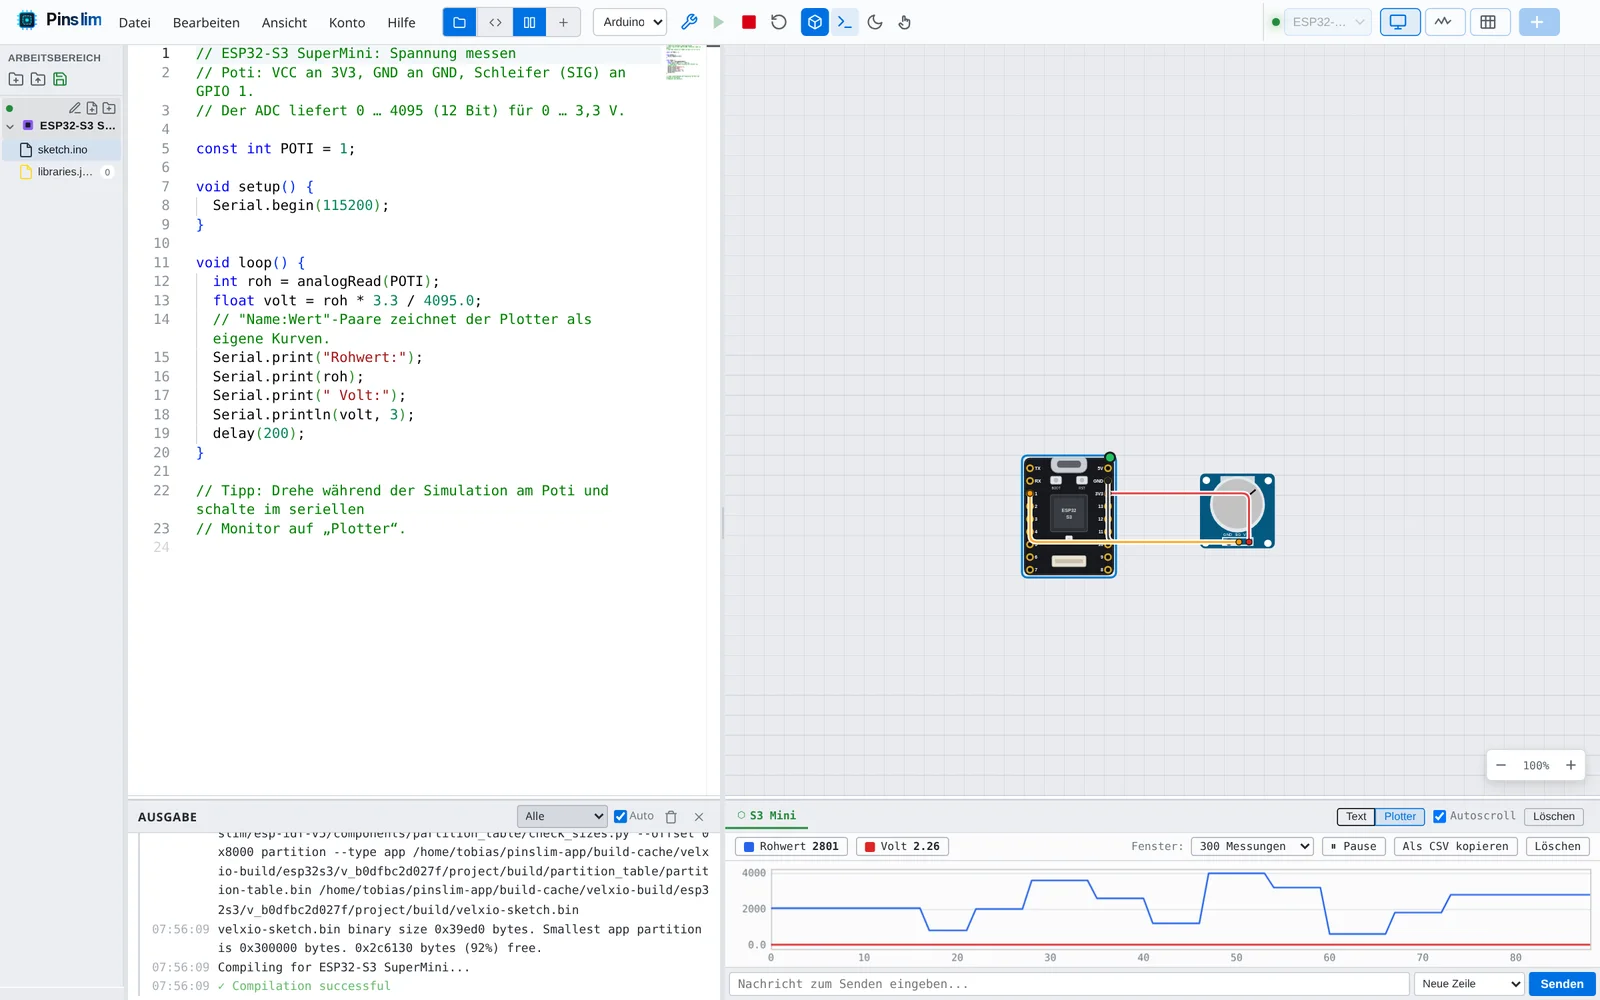
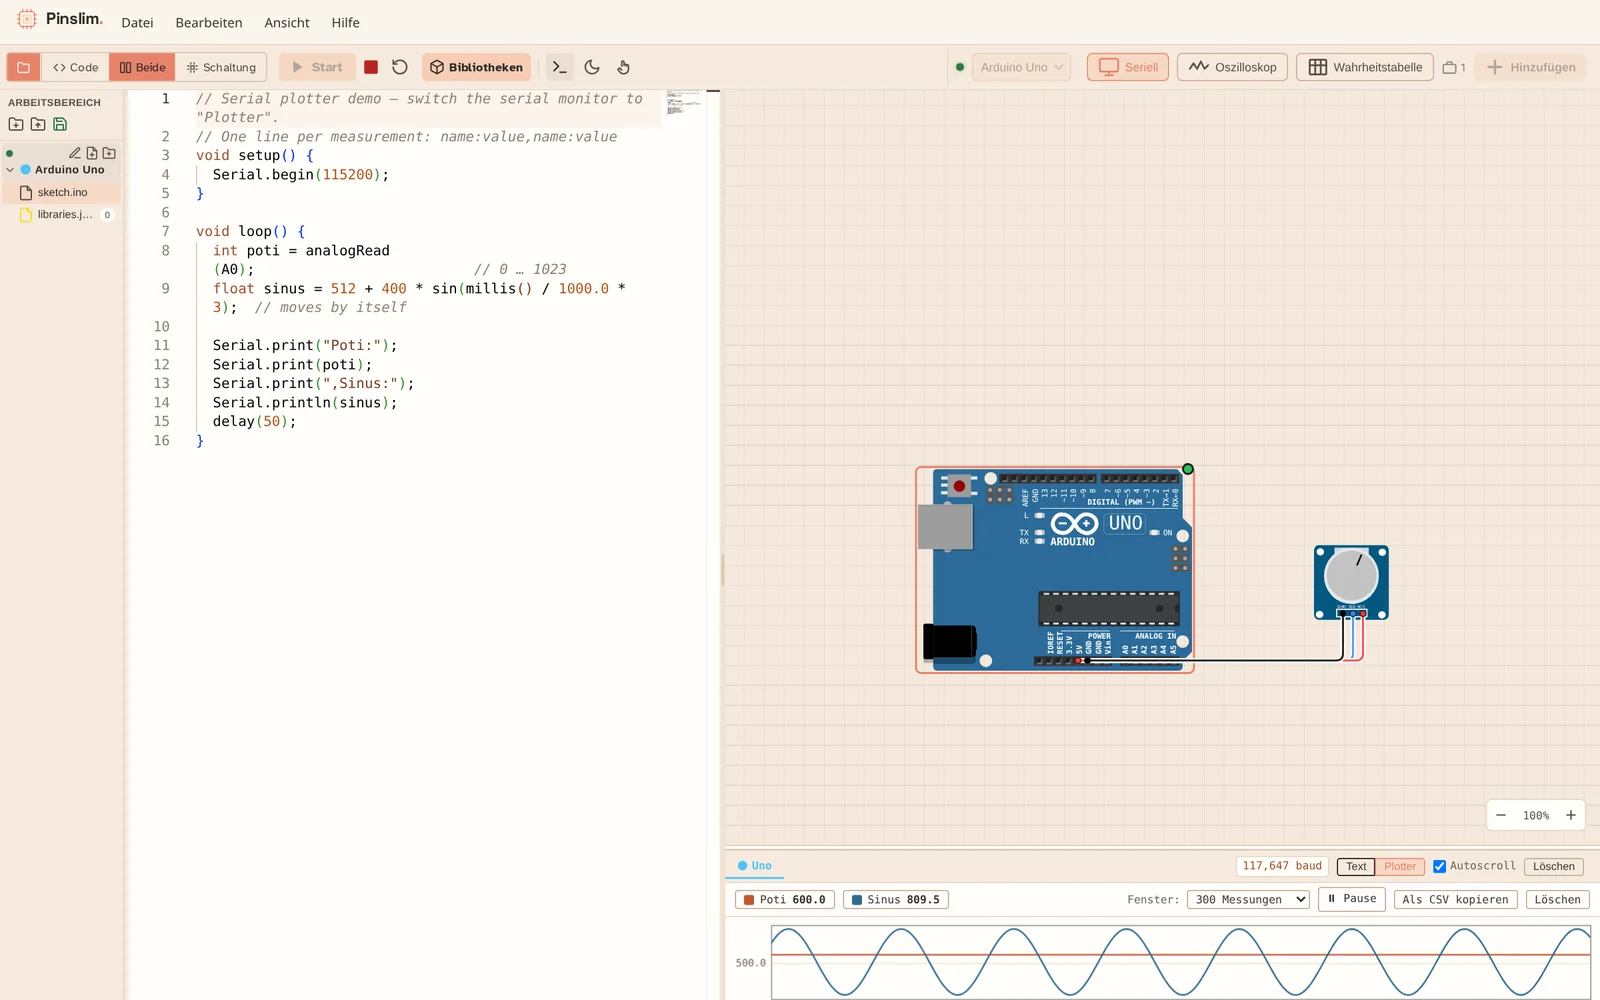
Real screenshots with a running backend; remaining blues and Velxio text
- New screenshots of Uno/Pico running on a real compile: decoded I2C in the
  oscilloscope, serial plotter (Uno); site/esp32-i2c.webp renamed to
  uno-i2c.webp because it now shows an Arduino Uno
- Serial plotter palette in the brand hues
- Light blue (#4fc3f7) accent in example pages, share dialog, consoles and
  file system replaced by the accent token
- Example sketches print "Pinslim" on their displays instead of "Velxio"

diff --git a/frontend/src/data/examples.ts b/frontend/src/data/examples.ts
@@ -156,7 +156,7 @@ void loop() {
   display.setTextColor(SSD1306_WHITE);
   display.setCursor(0, 0);
   display.println("Hello");
-  display.println("Velxio!");
+  display.println("Pinslim!");
   display.setTextSize(1);
   display.setCursor(0, 48);
   display.print("Count: ");
@@ -236,7 +236,7 @@ void loop() {
   display.setTextColor(SSD1306_WHITE);
   display.setCursor(0, 0);
   display.println("Hello");
-  display.println("Velxio!");
+  display.println("Pinslim!");
   display.setTextSize(1);
   display.setCursor(0, 48);
   display.printf("Count: %d", n);
@@ -623,7 +623,7 @@ void loop() {
   display.setTextColor(SSD1306_WHITE);
   display.setCursor(0, 0);
   display.println("Hello");
-  display.println("Velxio!");
+  display.println("Pinslim!");
   display.setTextSize(1);
   display.setCursor(0, 48);
   display.print("Count: ");
@@ -703,7 +703,7 @@ void loop() {
   display.setTextColor(SSD1306_WHITE);
   display.setCursor(0, 0);
   display.println("Hello");
-  display.println("Velxio!");
+  display.println("Pinslim!");
   display.setTextSize(1);
   display.setCursor(0, 48);
   display.print("Count: ");
@@ -1543,7 +1543,7 @@ void setup() {
   display.setTextColor(SSD1306_WHITE);
   display.setCursor(0, 0);
   display.println("Hello");
-  display.println("Velxio!");
+  display.println("Pinslim!");
   display.display();
   Serial.println("OLED ready");
 }
@@ -1555,7 +1555,7 @@ void loop() {
   display.setTextColor(SSD1306_WHITE);
   display.setCursor(0, 0);
   display.println("Hello");
-  display.println("Velxio!");
+  display.println("Pinslim!");
   display.setTextSize(1);
   display.setCursor(0, 48);
   display.print("Count: ");
@@ -1872,7 +1872,7 @@ void loop() {
   float p = bmp.readPressure() / 100.0F;   // hPa
   display.clearDisplay();
   display.setTextSize(1); display.setCursor(0, 0);
-  display.println("Velxio Weather");
+  display.println("Pinslim Weather");
   display.setTextSize(2); display.setCursor(0, 16);
   display.print(t, 1); display.println(" C");
   display.setTextSize(1); display.setCursor(0, 52);
@@ -3871,7 +3871,7 @@ void setup() {
   // Print a message to the LCD.
   lcd.print("Hello, Arduino!");
   lcd.setCursor(0, 1);
-  lcd.print("Velxio Emulator");
+  lcd.print("Pinslim Emulator");
   lcd.setCursor(0, 2);
   lcd.print("LCD 2004 Test");
 }
@@ -10392,7 +10392,7 @@ void setup() {
   display.setTextColor(SSD1306_WHITE);
   display.setCursor(0, 0);
   display.println("Hello");
-  display.println("Velxio!");
+  display.println("Pinslim!");
   display.display();
   Serial.println("OLED ready!");
 }
@@ -10404,7 +10404,7 @@ void loop() {
   display.setTextColor(SSD1306_WHITE);
   display.setCursor(0, 0);
   display.println("Hello");
-  display.println("Velxio!");
+  display.println("Pinslim!");
   display.setTextSize(1);
   display.setCursor(0, 48);
   display.printf("Count: %d", counter);

diff --git a/frontend/src/pages/ExampleDetailPage.tsx b/frontend/src/pages/ExampleDetailPage.tsx
@@ -108,9 +108,9 @@ export const ExampleDetailPage: React.FC = () => {
           <Link
             to="/examples"
             style={{
-              color: '#4fc3f7',
+              color: 'var(--color-accent-fg)',
               textDecoration: 'none',
-              border: '1px solid #4fc3f7',
+              border: '1px solid var(--color-accent-fg)',
               borderRadius: 4,
               padding: '8px 20px',
               fontSize: 14,
@@ -202,7 +202,7 @@ export const ExampleDetailPage: React.FC = () => {
                 padding: '3px 10px',
                 borderRadius: 4,
                 background: 'var(--color-accent-soft)',
-                color: '#4fc3f7',
+                color: 'var(--color-accent-fg)',
               }}
             >
               {categoryLabel}
@@ -288,7 +288,7 @@ export const ExampleDetailPage: React.FC = () => {
                   fontSize: 14,
                 }}
               >
-                <span style={{ color: '#4fc3f7', fontWeight: 700 }}>✓</span>
+                <span style={{ color: 'var(--color-accent-fg)', fontWeight: 700 }}>✓</span>
                 Real {boardLabel} emulation — cycle-accurate, no hardware needed
               </li>
               <li
@@ -300,7 +300,7 @@ export const ExampleDetailPage: React.FC = () => {
                   fontSize: 14,
                 }}
               >
-                <span style={{ color: '#4fc3f7', fontWeight: 700 }}>✓</span>
+                <span style={{ color: 'var(--color-accent-fg)', fontWeight: 700 }}>✓</span>
                 {example.components.length > 0
                   ? `${example.components.length} interactive component${example.components.length > 1 ? 's' : ''} on the canvas`
                   : 'Interactive simulation canvas'}
@@ -315,7 +315,7 @@ export const ExampleDetailPage: React.FC = () => {
                     fontSize: 14,
                   }}
                 >
-                  <span style={{ color: '#4fc3f7', fontWeight: 700 }}>✓</span>
+                  <span style={{ color: 'var(--color-accent-fg)', fontWeight: 700 }}>✓</span>
                   Auto-installs: {example.libraries.join(', ')}
                 </li>
               )}
@@ -328,7 +328,7 @@ export const ExampleDetailPage: React.FC = () => {
                   fontSize: 14,
                 }}
               >
-                <span style={{ color: '#4fc3f7', fontWeight: 700 }}>✓</span>
+                <span style={{ color: 'var(--color-accent-fg)', fontWeight: 700 }}>✓</span>
                 Serial Monitor included — see output in real time
               </li>
             </ul>

diff --git a/frontend/src/data/examples-displays-epaper.ts b/frontend/src/data/examples-displays-epaper.ts
@@ -46,7 +46,7 @@ void setup() {
   display.firstPage();
   do {
     display.fillScreen(GxEPD_WHITE);
-    display.setCursor(20, 60);  display.print(F("Velxio"));
+    display.setCursor(20, 60);  display.print(F("Pinslim"));
     display.setCursor(20, 100); display.print(F("ePaper"));
     display.setCursor(20, 140); display.print(F("OK!"));
   } while (display.nextPage());
@@ -104,7 +104,7 @@ void drawClock() {
   display.fillScreen(GxEPD_WHITE);
   display.setTextColor(GxEPD_BLACK);
   display.setFont(&FreeMonoBold12pt7b);
-  display.setCursor(8, 28);  display.print("Velxio Clock");
+  display.setCursor(8, 28);  display.print("Pinslim Clock");
   display.setCursor(8, 64);
   display.print("uptime: "); display.print(minutes); display.print("m");
 }
@@ -180,7 +180,7 @@ void setup() {
     display.fillScreen(GxEPD_WHITE);
     display.setTextColor(GxEPD_BLACK);
     display.setFont(&FreeMonoBold12pt7b);
-    display.setCursor(8, 28);  display.print("Velxio Weather");
+    display.setCursor(8, 28);  display.print("Pinslim Weather");
     display.setCursor(8, 64);  display.print("Temp:  22.5 C");
     display.setCursor(8, 96);  display.print("RH:    48 %");
   } while (display.nextPage());
@@ -237,7 +237,7 @@ void drawLayout() {
   display.fillScreen(GxEPD_WHITE);
   display.setTextColor(GxEPD_BLACK);
   display.setFont(&FreeMonoBold18pt7b);
-  display.setCursor(20, 60);  display.print("Velxio Logbook");
+  display.setCursor(20, 60);  display.print("Pinslim Logbook");
   display.drawLine(20, 80, 380, 80, GxEPD_BLACK);
 
   display.setFont(&FreeMonoBold9pt7b);
@@ -314,7 +314,7 @@ void drawDashboard() {
 
   // Title
   display.setFont(&FreeMonoBold24pt7b);
-  display.setCursor(40, 60);  display.print("Velxio Dashboard");
+  display.setCursor(40, 60);  display.print("Pinslim Dashboard");
   display.drawLine(40, 80, 760, 80, GxEPD_BLACK);
 
   // Tiles
@@ -487,7 +487,7 @@ void drawRainbow() {
   display.setTextColor(GxEPD_BLACK);
   display.setFont(&FreeMonoBold18pt7b);
   display.setCursor(120, 240);
-  display.print("Velxio ACeP 7c");
+  display.print("Pinslim ACeP 7c");
 }
 
 void setup() {

diff --git a/frontend/src/components/raspberry-pi/VirtualFileSystem.tsx b/frontend/src/components/raspberry-pi/VirtualFileSystem.tsx
@@ -40,7 +40,7 @@ const IcoFolder = ({ open }: { open: boolean }) => (
 
 const IcoFile = ({ name }: { name: string }) => {
   const ext = name.split('.').pop()?.toLowerCase() ?? '';
-  const color = ext === 'py' ? '#4fc3f7' : ext === 'sh' ? 'var(--color-feedback-success)' : 'var(--wb-11)';
+  const color = ext === 'py' ? 'var(--color-accent-fg)' : ext === 'sh' ? 'var(--color-feedback-success)' : 'var(--wb-11)';
   return (
     <svg width="13" height="13" viewBox="0 0 24 24" fill="none" stroke={color} strokeWidth="2">
       <path d="M14 2H6a2 2 0 0 0-2 2v16a2 2 0 0 0 2 2h12a2 2 0 0 0 2-2V8z" />
@@ -405,7 +405,7 @@ export const VirtualFileSystem: React.FC<VirtualFileSystemProps> = ({ boardId, o
                     ? '#ef5350'
                     : uploadStatus === 'uploading'
                       ? '#f59e0b'
-                      : '#4fc3f7',
+                      : 'var(--color-accent-fg)',
               opacity: uploadStatus === 'uploading' ? 0.7 : 1,
             }}
             onClick={handleUpload}
@@ -510,7 +510,7 @@ export const VirtualFileSystem: React.FC<VirtualFileSystemProps> = ({ boardId, o
         .vfs-rename-input {
           flex: 1;
           background: #3c3c3c;
-          border: 1px solid #4fc3f7;
+          border: 1px solid var(--color-accent-fg);
           color: #fff;
           font-size: 12px;
           padding: 1px 4px;

diff --git a/frontend/src/components/simulator/SerialMonitor.tsx b/frontend/src/components/simulator/SerialMonitor.tsx
@@ -382,7 +382,7 @@ export const SerialMonitor: React.FC = () => {
                           : undefined
                       }
                       style={{
-                        color: '#4fc3f7',
+                        color: 'var(--color-accent-fg)',
                         textDecoration: 'underline',
                         fontWeight: 'bold',
                         cursor: 'pointer',
@@ -495,7 +495,7 @@ const styles: Record<string, React.CSSProperties> = {
     width: 6,
     height: 6,
     borderRadius: '50%',
-    background: '#4fc3f7',
+    background: 'var(--color-accent-fg)',
     flexShrink: 0,
     marginLeft: 3,
   },

diff --git a/index.html b/index.html
@@ -193,7 +193,7 @@
             <li>Ablauf als Text kopieren – für das Heft oder den Bericht</li>
           </ul>
         </div>
-        <div class="frame"><div class="bar"><i></i><i></i><i></i></div><img src="docs/img/site/esp32-i2c.webp" alt="ESP32 mit OLED: dekodierter I²C-Verkehr im Oszilloskop" loading="lazy" width="1600" height="1050"></div>
+        <div class="frame"><div class="bar"><i></i><i></i><i></i></div><img src="docs/img/site/uno-i2c.webp" alt="Arduino Uno mit OLED: dekodierter I²C-Verkehr im Oszilloskop" loading="lazy" width="1600" height="1050"></div>
       </div>
 
       <div class="row rev">

diff --git a/frontend/src/lib/openDeviceGateway.ts b/frontend/src/lib/openDeviceGateway.ts
@@ -49,7 +49,7 @@ export function openDeviceGateway(url: string): void {
   const reload = document.createElement('button');
   reload.type = 'button';
   reload.textContent = 'Reload';
-  reload.style.cssText = 'background:none;border:none;color:#4fc3f7;cursor:pointer;font-size:12px;padding:0;';
+  reload.style.cssText = 'background:none;border:none;color:var(--color-accent-fg);cursor:pointer;font-size:12px;padding:0;';
 
   // No "open in a new tab" affordance: a background tab pauses the chip's
   // rAF loop, freezing the emulated server (502). The in-tab iframe is the

diff --git a/frontend/src/components/raspberry-pi/RaspberryPiWorkspace.tsx b/frontend/src/components/raspberry-pi/RaspberryPiWorkspace.tsx
@@ -212,7 +212,7 @@ export const RaspberryPiWorkspace: React.FC<RaspberryPiWorkspaceProps> = ({ boar
             ) : (
               <>
                 <button
-                  style={{ ...styles.toolbarBtn, color: bridgeConnected ? 'var(--wb-10)' : '#4fc3f7' }}
+                  style={{ ...styles.toolbarBtn, color: bridgeConnected ? 'var(--wb-10)' : 'var(--color-accent-fg)' }}
                   onClick={handleConnect}
                   title={t('editor.pi.connectTitle')}
                   disabled={bridgeConnected}

diff --git a/frontend/src/components/editor/CompilationConsole.tsx b/frontend/src/components/editor/CompilationConsole.tsx
@@ -271,7 +271,7 @@ function logColor(type: CompilationLog['type']): string {
     case 'success':
       return '#66bb6a';
     case 'core-install':
-      return '#4fc3f7';
+      return 'var(--color-accent-fg)';
     default:
       return 'var(--wb-12)';
   }
@@ -432,7 +432,7 @@ const styles: Record<string, React.CSSProperties> = {
   },
   coreTag: {
     background: 'rgba(79, 195, 247, 0.15)',
-    color: '#4fc3f7',
+    color: 'var(--color-accent-fg)',
     padding: '0 4px',
     borderRadius: 2,
     marginRight: 4,

diff --git a/frontend/src/pages/ExampleLoaderPage.tsx b/frontend/src/pages/ExampleLoaderPage.tsx
@@ -70,9 +70,9 @@ export const ExampleLoaderPage: React.FC = () => {
           <Link
             to={localize('/examples')}
             style={{
-              color: '#4fc3f7',
+              color: 'var(--color-accent-fg)',
               textDecoration: 'none',
-              border: '1px solid #4fc3f7',
+              border: '1px solid var(--color-accent-fg)',
               borderRadius: 4,
               padding: '8px 20px',
               fontSize: 14,

diff --git a/frontend/src/pages/ExampleEditorPage.tsx b/frontend/src/pages/ExampleEditorPage.tsx
@@ -151,9 +151,9 @@ export const ExampleEditorPage: React.FC = () => {
           <a
             href="/examples"
             style={{
-              color: '#4fc3f7',
+              color: 'var(--color-accent-fg)',
               textDecoration: 'none',
-              border: '1px solid #4fc3f7',
+              border: '1px solid var(--color-accent-fg)',
               borderRadius: 4,
               padding: '8px 20px',
               fontSize: 14,

diff --git a/frontend/src/components/layout/ShareModal.tsx b/frontend/src/components/layout/ShareModal.tsx
@@ -247,7 +247,7 @@ const styles: Record<string, React.CSSProperties> = {
   linkRow: { display: 'flex', gap: 6 },
   linkInput: {
     flex: 1, background: 'var(--wb-2)', border: '1px solid var(--wb-7)', borderRadius: 4,
-    padding: '8px 10px', color: '#4fc3f7', fontSize: 13,
+    padding: '8px 10px', color: 'var(--color-accent-fg)', fontSize: 13,
     fontFamily: 'monospace', outline: 'none',
   },
   copyBtn: {
